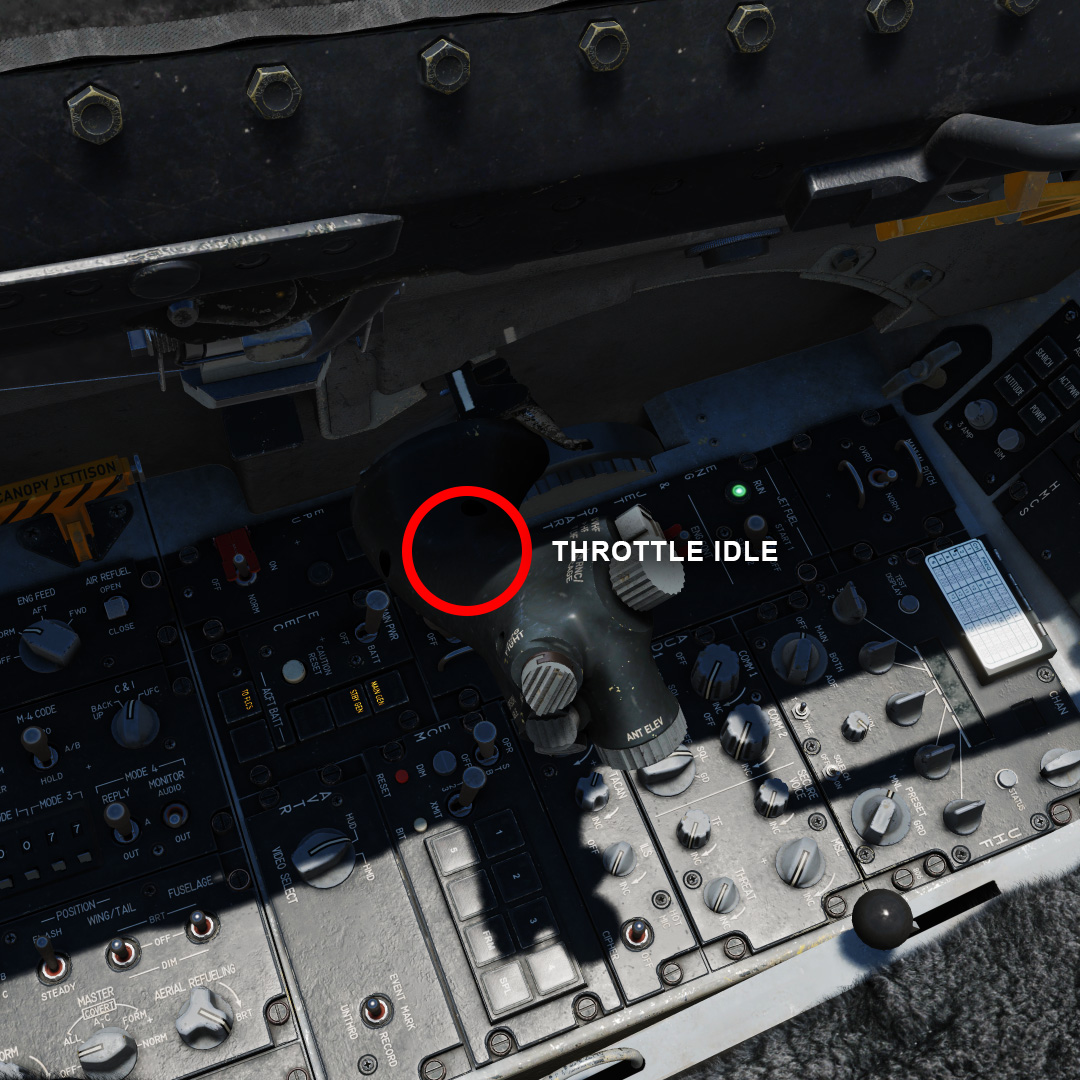
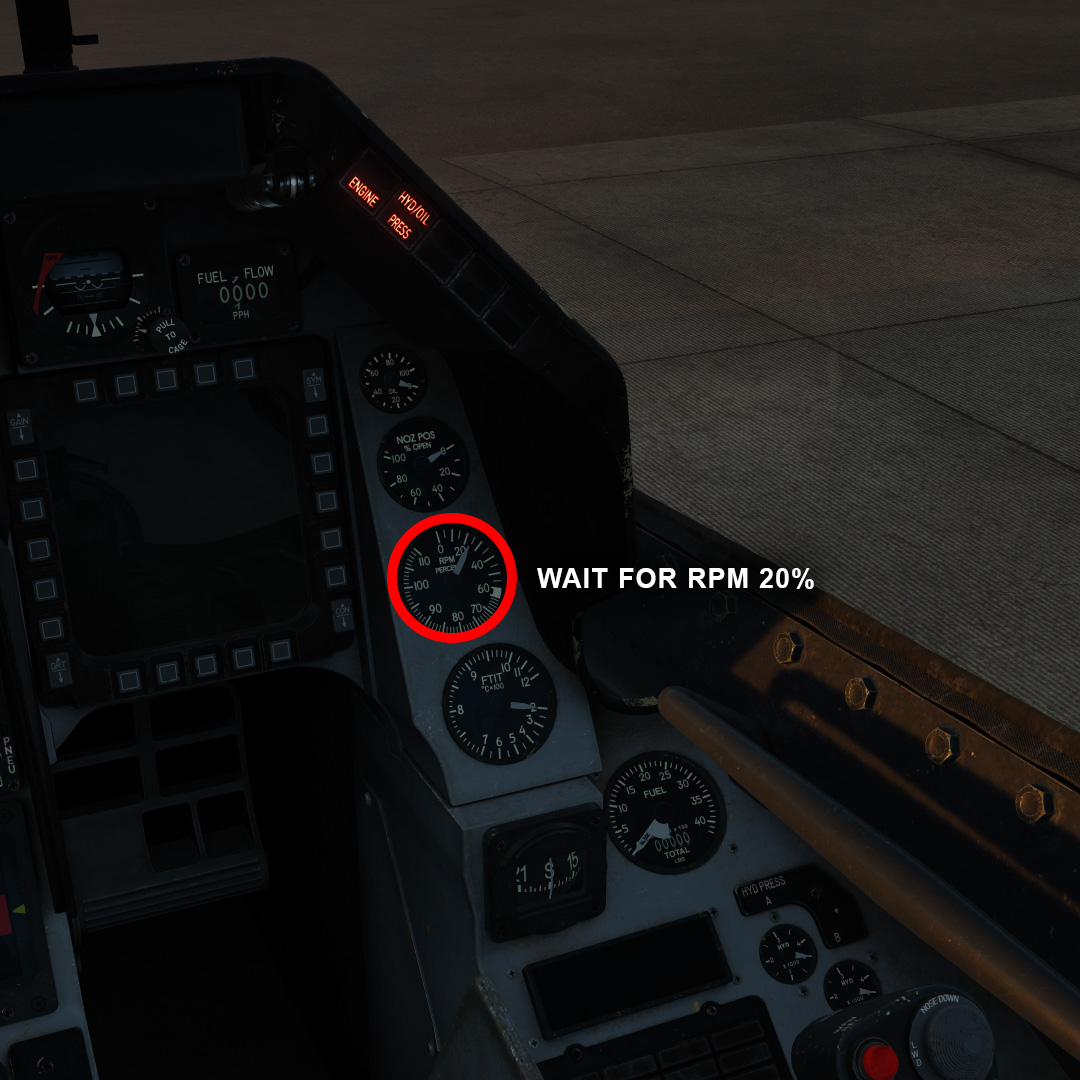
New F-16C coldstart procedure

diff --git a/pages/f-16c.html b/pages/f-16c.html
@@ -7,10 +7,7 @@
 
 		<div class="procedure">
 		
-			|procedure 'f-16c/coldstart/', [
-				5 => 'When RPM over 20',
-				14 => 'When RDY flashing on Data Entry Display (DED) over 20',
-			]|
+			|procedure 'f-16c/coldstart/', []|
 
 		</div>
 
